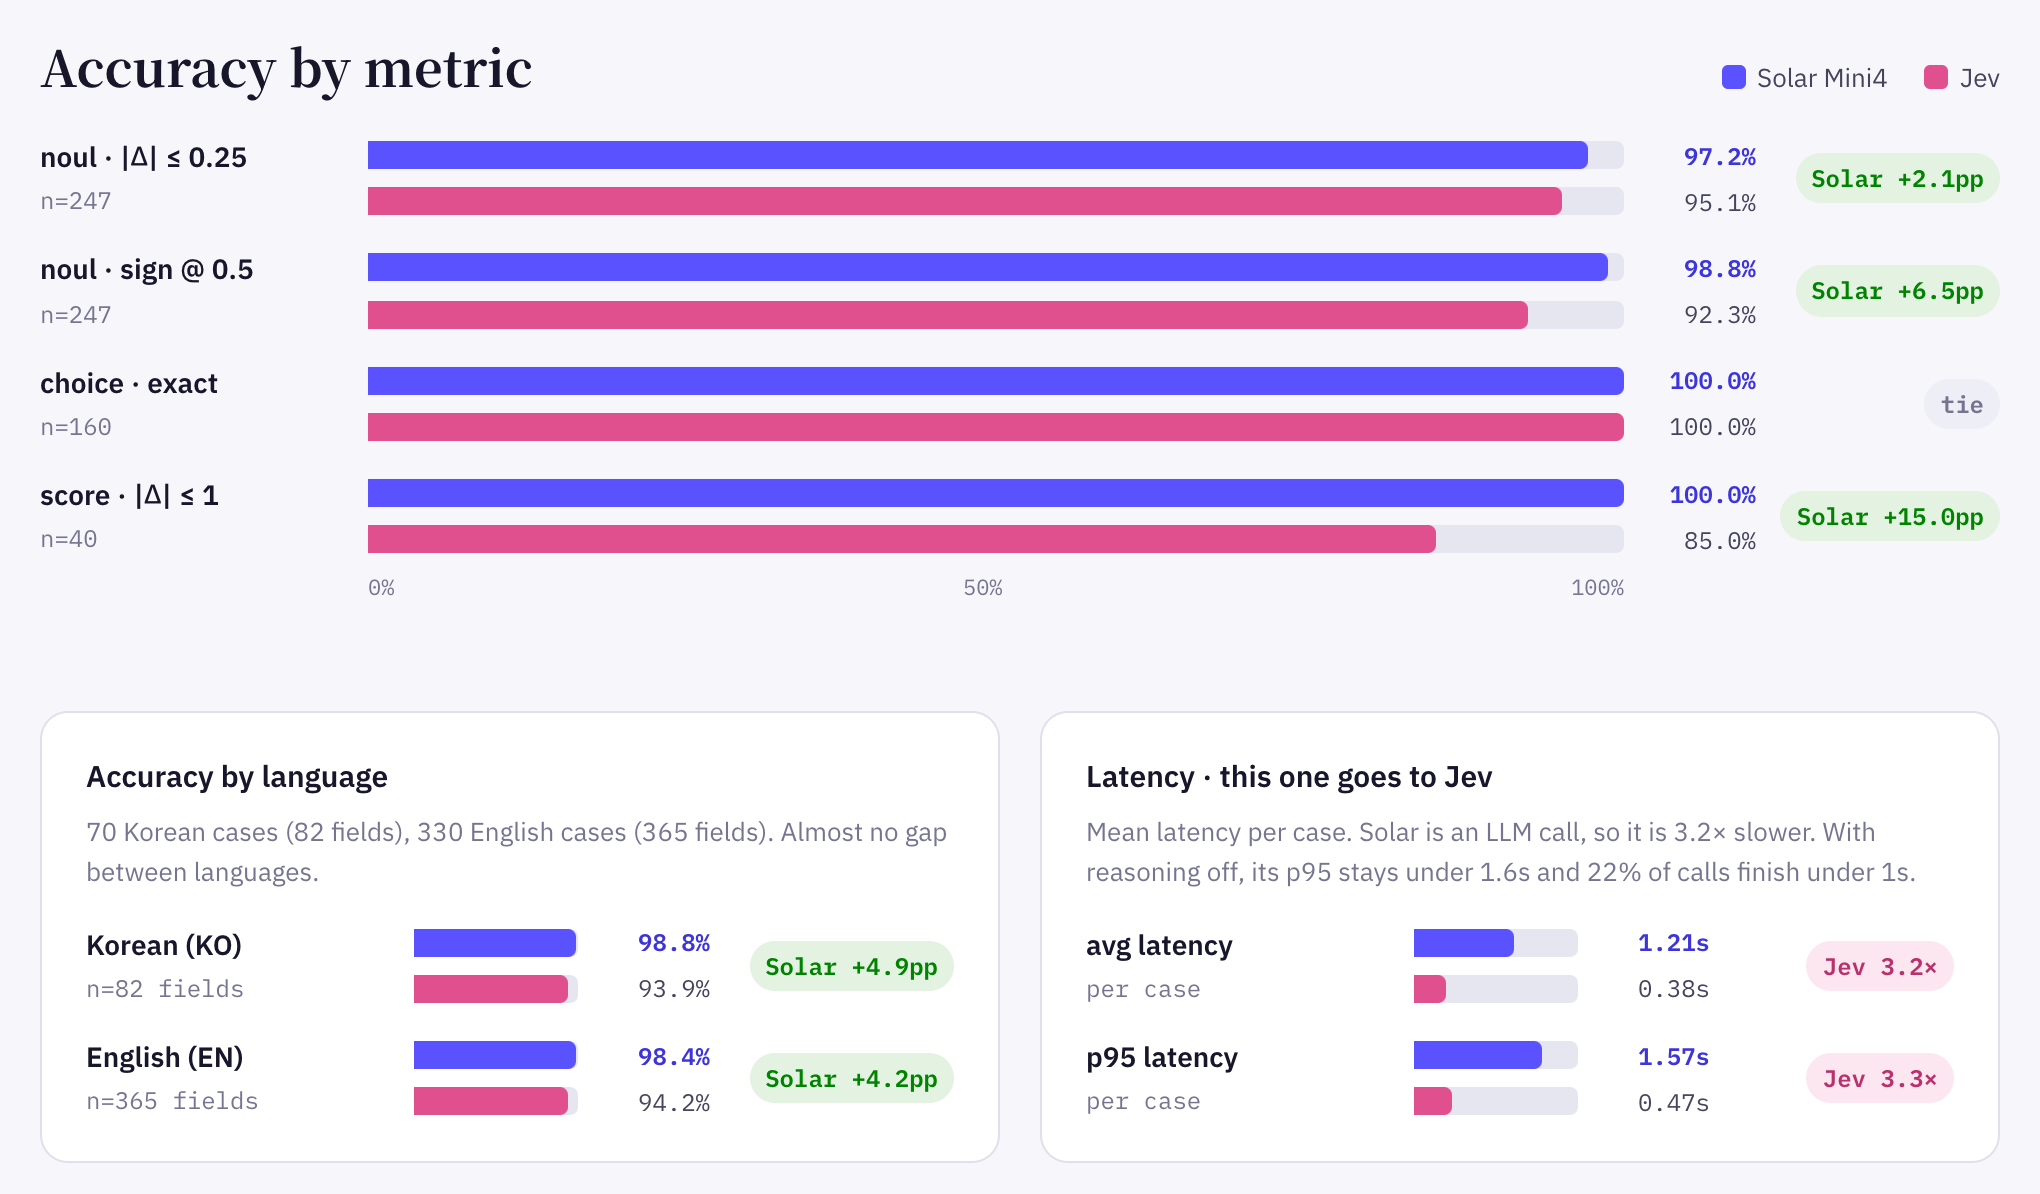
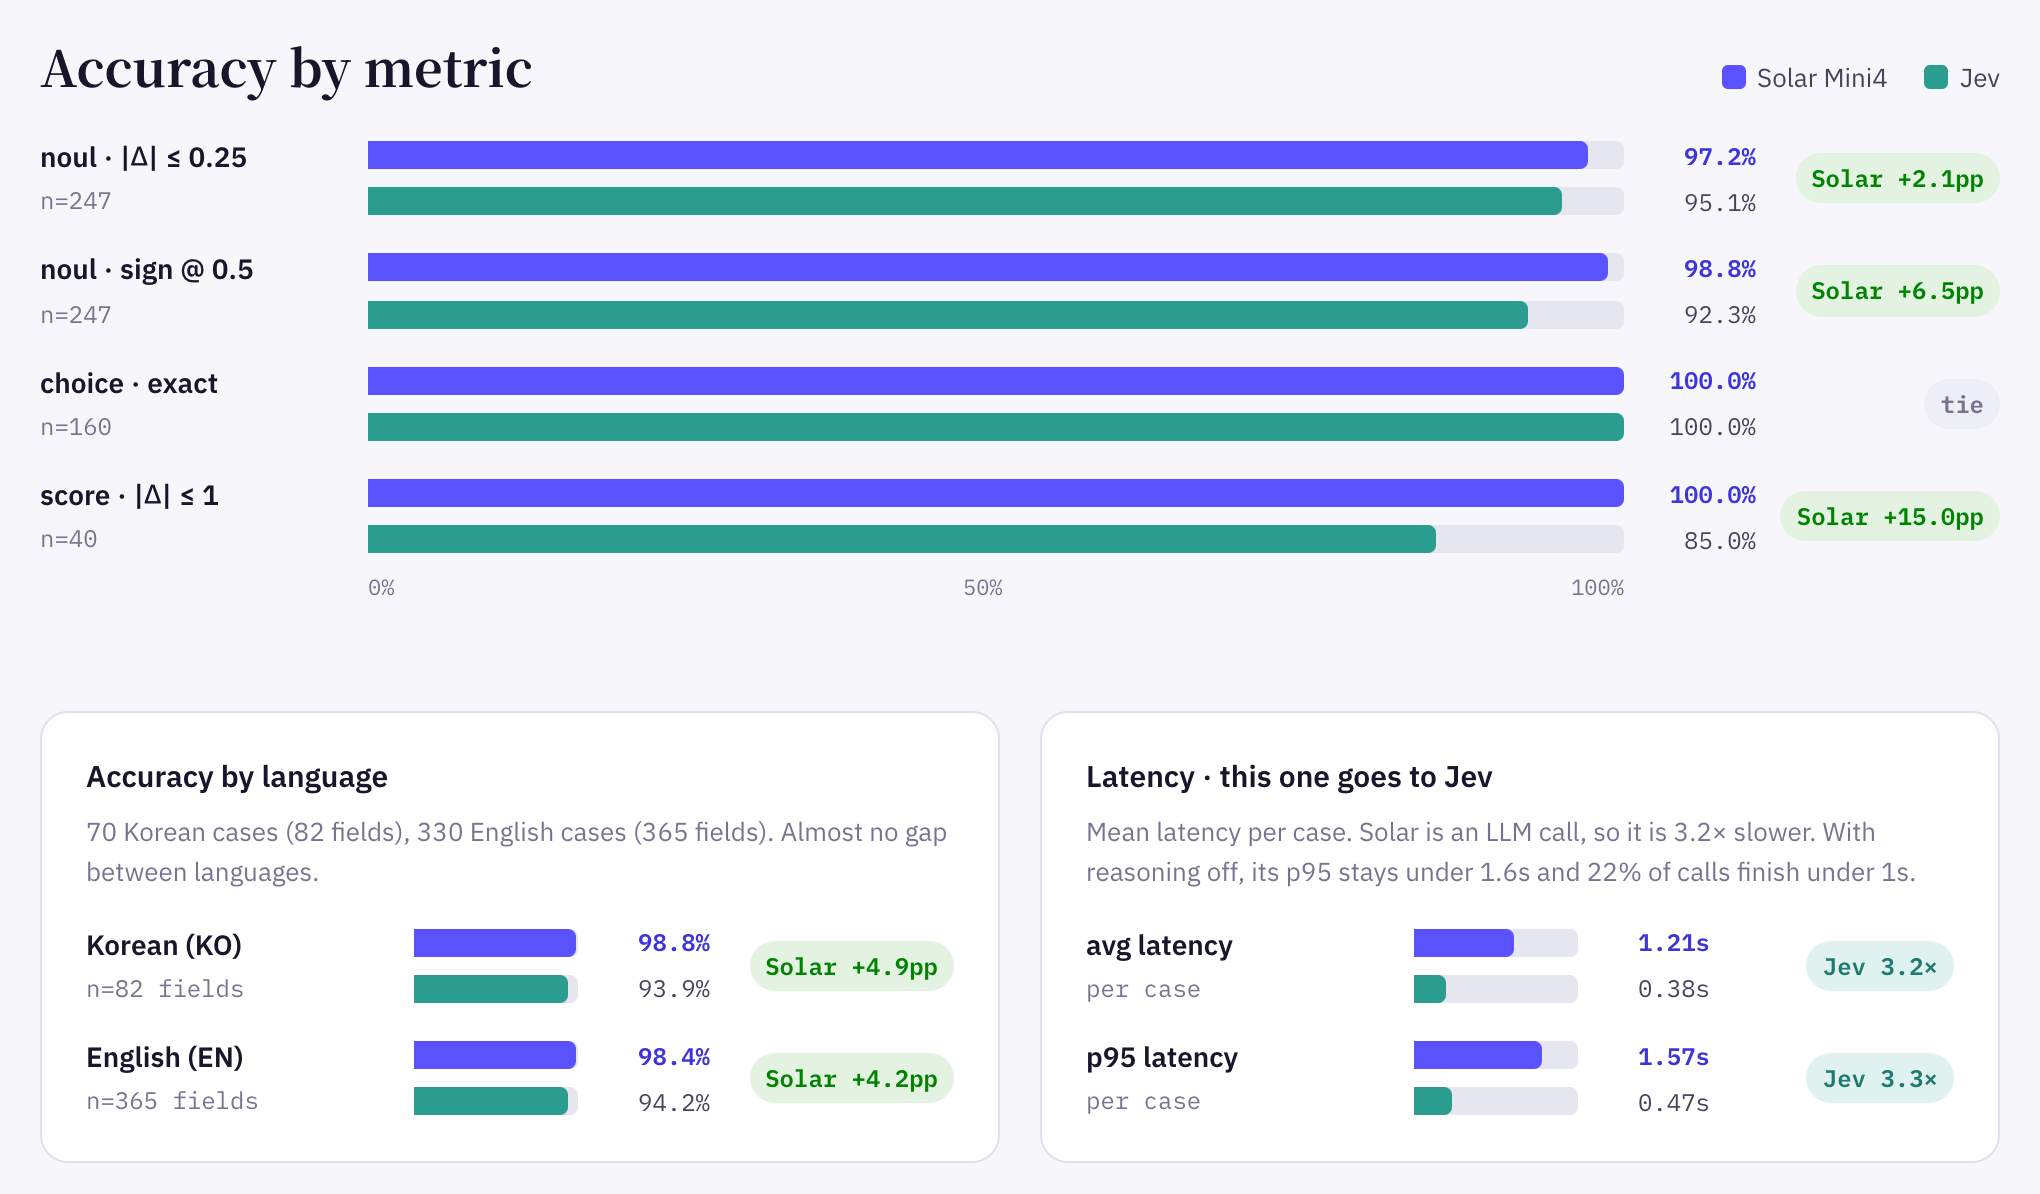
Scorecard: Jev color pink -> muted teal for readability
Keeps Upstage purple for Solar; teal is complementary and validated
for CVD separation and surface contrast in light and dark.

diff --git a/bench/infographic_grok46_judge.html b/bench/infographic_grok46_judge.html
@@ -13,7 +13,7 @@
     --bg:#f7f7fb; --surface:#ffffff; --surface-2:#eeeef6; --line:#e0e0ec; --line-2:#c6c6d8;
     --ink:#17162a; --ink-2:#45445c; --muted:#767590;
     --solar:#5b52ff; --solar-ink:#3d34d9; --solar-soft:#ecebff;
-    --jev:#e0508f; --jev-ink:#b8306c; --jev-soft:#fce6ef;
+    --jev:#2a9d8f; --jev-ink:#1f7a6f; --jev-soft:#e0f2ef;
     --good:#008300; --good-soft:#e3f2e1; --bad:#17162a;
     --track:#e6e6f0;
     --display:"Noto Serif KR", "Apple Myungjo", "Nanum Myeongjo", Georgia, serif;
@@ -26,7 +26,7 @@
       --bg:#111120; --surface:#191929; --surface-2:#212134; --line:#2d2d44; --line-2:#44445e;
       --ink:#eeeef8; --ink-2:#c4c4d8; --muted:#8e8ea8;
       --solar:#7b74ff; --solar-ink:#b3aeff; --solar-soft:#23204d;
-      --jev:#e05a95; --jev-ink:#f7a3c6; --jev-soft:#3d1a2b;
+      --jev:#22a396; --jev-ink:#7fd6cb; --jev-soft:#12332f;
       --good:#4caf50; --good-soft:#173a1a; --bad:#f2eee4;
       --track:#262639;
     }
@@ -36,7 +36,7 @@
     --bg:#111120; --surface:#191929; --surface-2:#212134; --line:#2d2d44; --line-2:#44445e;
     --ink:#eeeef8; --ink-2:#c4c4d8; --muted:#8e8ea8;
     --solar:#7b74ff; --solar-ink:#b3aeff; --solar-soft:#23204d;
-    --jev:#e05a95; --jev-ink:#f7a3c6; --jev-soft:#3d1a2b;
+    --jev:#22a396; --jev-ink:#7fd6cb; --jev-soft:#12332f;
     --good:#4caf50; --good-soft:#173a1a; --bad:#f2eee4;
     --track:#262639;
   }

diff --git a/docs/index.html b/docs/index.html
@@ -13,7 +13,7 @@
     --bg:#f7f7fb; --surface:#ffffff; --surface-2:#eeeef6; --line:#e0e0ec; --line-2:#c6c6d8;
     --ink:#17162a; --ink-2:#45445c; --muted:#767590;
     --solar:#5b52ff; --solar-ink:#3d34d9; --solar-soft:#ecebff;
-    --jev:#e0508f; --jev-ink:#b8306c; --jev-soft:#fce6ef;
+    --jev:#2a9d8f; --jev-ink:#1f7a6f; --jev-soft:#e0f2ef;
     --good:#008300; --good-soft:#e3f2e1; --bad:#17162a;
     --track:#e6e6f0;
     --display:"Noto Serif KR", "Apple Myungjo", "Nanum Myeongjo", Georgia, serif;
@@ -26,7 +26,7 @@
       --bg:#111120; --surface:#191929; --surface-2:#212134; --line:#2d2d44; --line-2:#44445e;
       --ink:#eeeef8; --ink-2:#c4c4d8; --muted:#8e8ea8;
       --solar:#7b74ff; --solar-ink:#b3aeff; --solar-soft:#23204d;
-      --jev:#e05a95; --jev-ink:#f7a3c6; --jev-soft:#3d1a2b;
+      --jev:#22a396; --jev-ink:#7fd6cb; --jev-soft:#12332f;
       --good:#4caf50; --good-soft:#173a1a; --bad:#f2eee4;
       --track:#262639;
     }
@@ -36,7 +36,7 @@
     --bg:#111120; --surface:#191929; --surface-2:#212134; --line:#2d2d44; --line-2:#44445e;
     --ink:#eeeef8; --ink-2:#c4c4d8; --muted:#8e8ea8;
     --solar:#7b74ff; --solar-ink:#b3aeff; --solar-soft:#23204d;
-    --jev:#e05a95; --jev-ink:#f7a3c6; --jev-soft:#3d1a2b;
+    --jev:#22a396; --jev-ink:#7fd6cb; --jev-soft:#12332f;
     --good:#4caf50; --good-soft:#173a1a; --bad:#f2eee4;
     --track:#262639;
   }

diff --git a/docs/infographic.html b/docs/infographic.html
@@ -13,7 +13,7 @@
     --bg:#f7f7fb; --surface:#ffffff; --surface-2:#eeeef6; --line:#e0e0ec; --line-2:#c6c6d8;
     --ink:#17162a; --ink-2:#45445c; --muted:#767590;
     --solar:#5b52ff; --solar-ink:#3d34d9; --solar-soft:#ecebff;
-    --jev:#e0508f; --jev-ink:#b8306c; --jev-soft:#fce6ef;
+    --jev:#2a9d8f; --jev-ink:#1f7a6f; --jev-soft:#e0f2ef;
     --good:#008300; --good-soft:#e3f2e1; --bad:#17162a;
     --track:#e6e6f0;
     --display:"Noto Serif KR", "Apple Myungjo", "Nanum Myeongjo", Georgia, serif;
@@ -26,7 +26,7 @@
       --bg:#111120; --surface:#191929; --surface-2:#212134; --line:#2d2d44; --line-2:#44445e;
       --ink:#eeeef8; --ink-2:#c4c4d8; --muted:#8e8ea8;
       --solar:#7b74ff; --solar-ink:#b3aeff; --solar-soft:#23204d;
-      --jev:#e05a95; --jev-ink:#f7a3c6; --jev-soft:#3d1a2b;
+      --jev:#22a396; --jev-ink:#7fd6cb; --jev-soft:#12332f;
       --good:#4caf50; --good-soft:#173a1a; --bad:#f2eee4;
       --track:#262639;
     }
@@ -36,7 +36,7 @@
     --bg:#111120; --surface:#191929; --surface-2:#212134; --line:#2d2d44; --line-2:#44445e;
     --ink:#eeeef8; --ink-2:#c4c4d8; --muted:#8e8ea8;
     --solar:#7b74ff; --solar-ink:#b3aeff; --solar-soft:#23204d;
-    --jev:#e05a95; --jev-ink:#f7a3c6; --jev-soft:#3d1a2b;
+    --jev:#22a396; --jev-ink:#7fd6cb; --jev-soft:#12332f;
     --good:#4caf50; --good-soft:#173a1a; --bad:#f2eee4;
     --track:#262639;
   }
